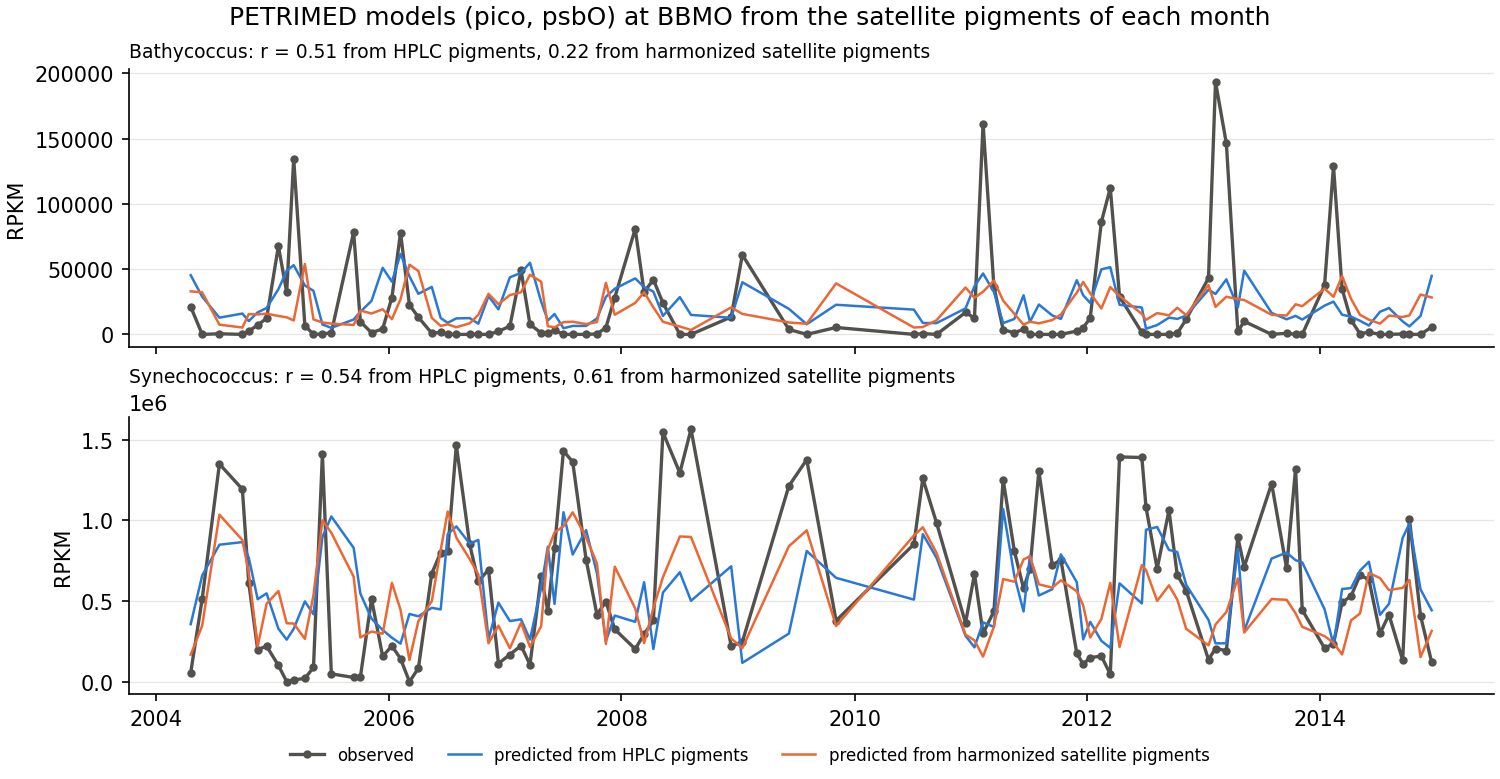
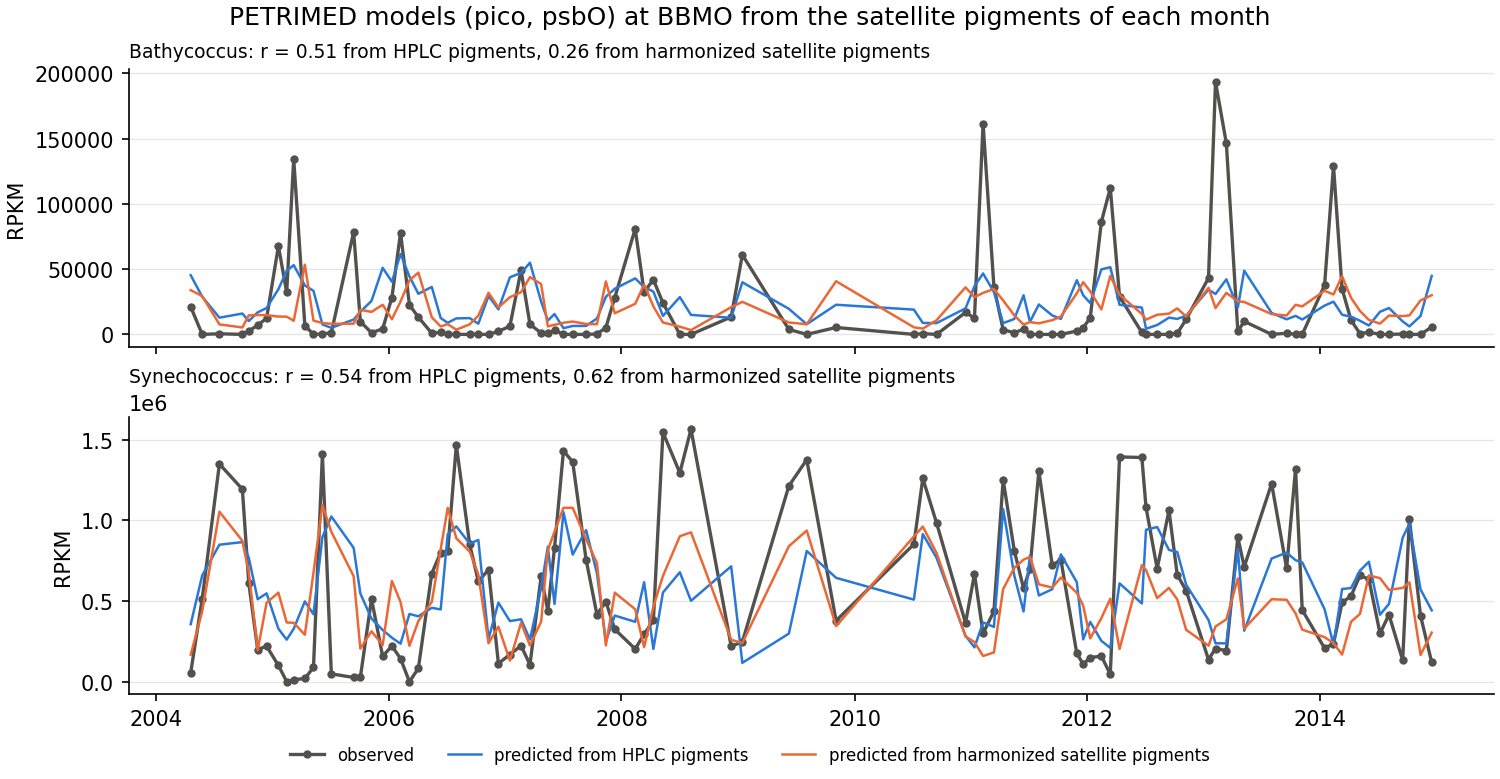
Export and use only the pico psbO PETRIMED models

diff --git a/task2/scripts/psts.py b/task2/scripts/psts.py
@@ -3,15 +3,13 @@
     python task2/scripts/psts.py
 
 PETRIMED (task2/PETRIMED) trained XGBoost models at SOLA, in 2015-2016, that predict the abundance
-of plankton sequence types (PSTs) in the pico (0.2-3 um) and nano (3-20 um) fractions from the
-relative composition of 12 HPLC pigments. There is one set of models for each way of measuring
-the PSTs: psbO gene (psbo), metagenome-assembled genomes (mags) and metabarcoding (metab).
-export_models.R exports the models with a validation correlation of at least 0.6, which PETRIMED
-averages, to task2/data/models.
+of plankton sequence types (PSTs) from the relative composition of 12 HPLC pigments. Here the pico
+(0.2-3 um) psbO models are used, those with a validation correlation of at least 0.6, which
+PETRIMED averages, exported by export_models.R to task2/data/models.
 
-The pico psbo models are tested on the HPLC pigments of BBMO (100 samples, 2004-2014) and MOLA (7,
-2020-2021), where they were not trained, with the Pearson correlation between predicted and
-observed abundance, from
+They are tested on the HPLC pigments of BBMO (100 samples, 2004-2014) and MOLA (7, 2020-2021),
+where they were not trained, with the Pearson correlation between predicted and observed
+abundance, from
 - the HPLC pigments (hplc), also at SOLA (mostly training samples);
 - the HPLC pigments with prasinoxanthin, which Task 1 does not estimate, replaced by
   PRASINO_PER_CHLB x chlorophyll b (no_prasino).
@@ -40,11 +38,10 @@ PIGMENTS = ["Chl_C2", "Peridinine", "X19BF", "Fucoxanthin", "Prasinoxanthin", "X
 PRASINO_PER_CHLB = 0.30
 
 
-def read_insitu(method: str) -> pd.DataFrame:
-    """PETRIMED's table of HPLC pigments and observed PSTs at SOLA, BBMO and MOLA."""
-    data = pd.read_csv(DATA_DIR / f"mola_bbmo_sola_pigments_{method}_pst_rpkm.csv", parse_dates=["Date"])
-    data = data.rename(columns={"19BF": "X19BF", "19HF": "X19HF"})
-    return data.replace({"SF": {"0.2-3 um": "PICO", "3-20 um": "NANO"}})
+def read_insitu() -> pd.DataFrame:
+    """PETRIMED's table of HPLC pigments and observed pico psbO PSTs at SOLA, BBMO and MOLA."""
+    data = pd.read_csv(DATA_DIR / "mola_bbmo_sola_pigments_psbo_pst_rpkm.csv", parse_dates=["Date"])
+    return data[data["SF"] == "PICO"].rename(columns={"19BF": "X19BF", "19HF": "X19HF"})
 
 
 def estimate_prasinoxanthin(pigments: pd.DataFrame) -> pd.DataFrame:
@@ -58,9 +55,9 @@ def relative(pigments: pd.DataFrame) -> pd.DataFrame:
     return x.div(x.sum(axis=1), axis=0)
 
 
-def load_models(method: str, fraction: str, pst: str) -> list[xgb.Booster]:
+def load_models(pst: str) -> list[xgb.Booster]:
     models = []
-    for line in (MODELS_DIR / f"{method}_{fraction}" / f"{pst}.jsonl").read_text().splitlines():
+    for line in (MODELS_DIR / f"{pst}.jsonl").read_text().splitlines():
         # xgboost 3 writes base_score as a list, which xgboost 2.1 does not read
         line = re.sub(r'"base_score":"\[([^\]]+)\]"', r'"base_score":"\1"', line)
         model = xgb.Booster()
@@ -117,8 +114,8 @@ def plot_check(dates: pd.Series, series: dict, title: str, path: Path) -> None:
 
 
 def main() -> int:
-    summary = pd.read_csv(MODELS_DIR / "summary.csv").query("method == 'psbo' and fraction == 'pico'")
-    pico = read_insitu("psbo").query("SF == 'PICO'")
+    summary = pd.read_csv(MODELS_DIR / "summary.csv")
+    pico = read_insitu()
     # Pigments made relative within each station, as PETRIMED
     inputs = {
         "hplc": pico.groupby("ST", group_keys=False)[PIGMENTS].apply(relative),
@@ -127,7 +124,7 @@ def main() -> int:
     }
     rows, check = [], {}
     for row in summary.itertuples():
-        models = load_models("psbo", "pico", row.pst)
+        models = load_models(row.pst)
         result = {"pst": row.pst, "models": row.models, "cor_valid": row.cor_valid}
         for name, x in inputs.items():
             predicted = pd.Series(predict(models, x), index=x.index)

diff --git a/task2/scripts/predict_psts.py b/task2/scripts/predict_psts.py
@@ -59,7 +59,7 @@ def save_quantiles(satellite: pd.DataFrame) -> None:
     """Quantiles of the satellite shares at the NW Mediterranean stations and of the HPLC shares at
     SOLA and MOLA (not BBMO, kept for the check)."""
     sat = psts.relative(from_task1(satellite.loc[["BBMO", "SOLA", "MOLA"]]).dropna())
-    insitu = psts.read_insitu("psbo").query("SF == 'PICO' and ST != 'BBMO'")
+    insitu = psts.read_insitu().query("ST != 'BBMO'")
     hplc = psts.relative(psts.estimate_prasinoxanthin(insitu[psts.PIGMENTS]))
     levels = np.linspace(0, 1, 101)
     table = {"quantile": levels}
@@ -77,8 +77,8 @@ def harmonize(shares: pd.DataFrame) -> pd.DataFrame:
 
 
 def check(satellite: pd.DataFrame) -> pd.DataFrame:
-    summary = pd.read_csv(psts.MODELS_DIR / "summary.csv").query("method == 'psbo' and fraction == 'pico'")
-    bbmo = psts.read_insitu("psbo").query("SF == 'PICO' and ST == 'BBMO'")
+    summary = pd.read_csv(psts.MODELS_DIR / "summary.csv")
+    bbmo = psts.read_insitu().query("ST == 'BBMO'")
     months = bbmo["Date"].dt.to_period("M").dt.to_timestamp()
     pigments = from_task1(satellite.reindex(pd.MultiIndex.from_arrays([bbmo["ST"], months]))
                           .set_axis(bbmo.index)).dropna()
@@ -86,7 +86,7 @@ def check(satellite: pd.DataFrame) -> pd.DataFrame:
     month = bbmo["Date"].dt.month
     rows, series = [], {}
     for pst in summary["pst"]:
-        models = psts.load_models("psbo", "pico", pst)
+        models = psts.load_models(pst)
         observed = bbmo[pst]
         result = {"pst": pst}
         predicted = {}
@@ -116,7 +116,7 @@ def predict(pigments: pd.DataFrame, models: dict) -> pd.DataFrame:
     x = harmonize(psts.relative(from_task1(pigments[ok])))
     out = pd.DataFrame(index=pigments.index, columns=list(models), dtype="float32")
     for pst, pst_models in models.items():
-        out.loc[ok, pst] = psts.predict(pst_models, x)
+        out.loc[ok, pst] = psts.predict(pst_models, x).astype("float32")
     return out
 
 
@@ -148,7 +148,7 @@ def main(argv: list[str] | None = None) -> int:
     if args.check_only:
         return 0
 
-    models = {pst: psts.load_models("psbo", "pico", pst) for pst in PSTS}
+    models = {pst: psts.load_models(pst) for pst in PSTS}
     for path in sorted(PIGMENT_DIR.glob("*_monthly.nc")):
         with xr.open_dataset(path) as monthly:
             # One year at a time keeps the memory low
